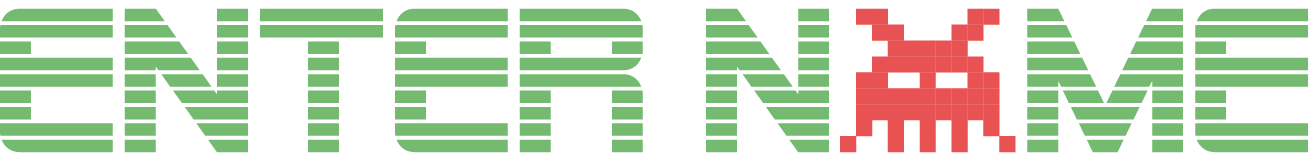
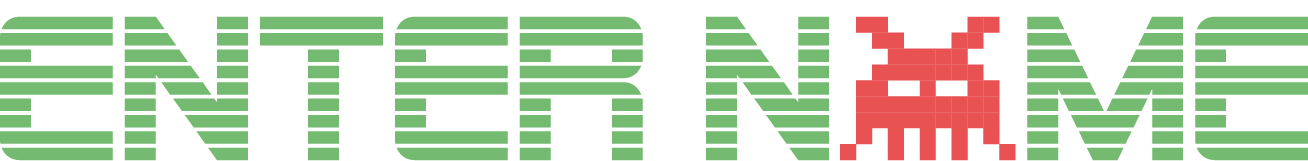
added login feature

diff --git a/public/sketch.js b/public/sketch.js
@@ -4,6 +4,11 @@ let ymp = window.innerHeight / 1080;
 let stars = [];
 let starsAmount = window.innerHeight;
 
+let state = 0;
+let enterNameText = [];
+let loginScreen;
+
+let username;
 let player;
 let upPressed = false;
 let downPressed = false;
@@ -19,9 +24,7 @@ let shipsImgState1 = [];
 let monstersImgState1 = [];
 
 let animationState = 0;
-let animationInterval = setInterval(function () {
-    animationState = animationState === 0 ? 1 : 0
-}, 500);
+let animationInterval = setInterval(function () { animationState = animationState === 0 ? 1 : 0 }, 500);
 
 function preload() {
 
@@ -31,6 +34,9 @@ function preload() {
         monstersImgState0[i] = loadImage(`assets/monster${i}/state0.png`);
         monstersImgState1[i] = loadImage(`assets/monster${i}/state1.png`);
     }
+
+    enterNameText[0] = loadImage(`assets/enterName/state0.png`);
+    enterNameText[1] = loadImage(`assets/enterName/state1.png`);
 }
 
 function setup() {
@@ -44,9 +50,11 @@ function setup() {
         stars[i] = new Star();
     }
 
+    loginScreen = new LoginScreen();
+
     socket.on('spawnHostileCue', spawnHostile);
 
-    player = new Player();
+    //player = new Player();
 }
 
 function draw() {
@@ -57,29 +65,37 @@ function draw() {
         stars[i].show();
     }
 
-    player.show();
+    if(state === 0) { loginScreen.show(); }
 
-    for (let m = 0; m < monsters.length; m++) {
-        for (let b = 0; b < bullets.length; b++) {
-            if (bullets[b].y > monsters[m].y - (monsters[m].size / 2) && bullets[b].y < monsters[m].y + (monsters[m].size / 2) && bullets[b].x > monsters[m].x) {
-                monsters.splice(m, 1);
-                bullets.splice(b, 1);
+    if(state === 1) {
+
+        player.show();
+
+        for (let m = 0; m < monsters.length; m++) {
+            for (let b = 0; b < bullets.length; b++) {
+                if (bullets[b].y > monsters[m].y - (monsters[m].size / 2) && bullets[b].y < monsters[m].y + (monsters[m].size / 2) && bullets[b].x > monsters[m].x) {
+                    monsters.splice(m, 1);
+                    bullets.splice(b, 1);
+                }
             }
-        }
 
-        monsters[m].show();
+            monsters[m].show();
+        }
     }
 }
 
 
 function spawnHostile() {
 
-    for (let i = 0; i < monsters.length; i++) {
-        monsters[i].x -= 100;
-    }
+    if(state === 1) {
 
-    for (let i = 0; i < 12; i++) {
-        monsters.push(new Monster((1080 / 8) * i));
+        for (let i = 0; i < monsters.length; i++) {
+            monsters[i].x -= 100;
+        }
+
+        for (let i = 0; i < 12; i++) {
+            monsters.push(new Monster((1080 / 8) * i));
+        }
     }
 }
 
@@ -104,6 +120,10 @@ function keyPressed() {
     if (keyCode === 32) {
         player.shoot();
     }
+
+    if(keyCode === ENTER && state === 0) {
+        loginScreen.requestUsername();
+    }
 }
 
 function keyReleased() {
@@ -123,4 +143,10 @@ function keyReleased() {
     if (keyCode === RIGHT_ARROW || keyCode === 68) {
         rightPressed = false;
     }
+}
+
+function windowResized() {
+    resizeCanvas(window.innerWidth, window.innerHeight);
+    xmp = window.innerWidth / 1920;
+    ymp = window.innerHeight / 1080;
 }

diff --git a/public/loginScreen/LoginScreen.js b/public/loginScreen/LoginScreen.js
@@ -1,0 +1,41 @@
+class LoginScreen {
+
+    constructor() {
+
+        this.textSize = 1000;
+
+        this.state0 = enterNameText[0];
+        this.state0.resize(this.textSize, 0);
+        this.state1 = enterNameText[1];
+        this.state1.resize(this.textSize, 0);
+
+        this.usernameInp = createInput('');
+        this.usernameInp.size(200, 20);
+
+        socket.on('usernameDeclined', (data) => { console.log(`username ${data} has been declined!`); });
+        socket.on('usernameAccepted', (data) => {
+
+            username = data;
+            this.usernameInp.remove();
+            player = new Player();
+            state = 1;
+        });
+    }
+
+    show() {
+
+        this.usernameInp.position(((1920 / 2) * xmp) - 100, (1080 / 2) * ymp);
+        push();
+        imageMode(CENTER);
+        translate((1920 / 2) * xmp, 400 * ymp);
+        image(animationState === 0 ? this.state0 : this.state1, 0, 0);
+        pop();
+    }
+
+    requestUsername() {
+
+        if(this.usernameInp.value() !== '' && this.usernameInp.value() !== undefined && this.usernameInp.value() !== null) {
+            socket.emit('usernameRequest', this.usernameInp.value());
+        }
+    }
+}

diff --git a/server.js b/server.js
@@ -1,3 +1,4 @@
+let userNames = [];
 let users = [];
 
 let express = require('express');
@@ -19,13 +20,33 @@ function newConnection(socket) {
 
     console.log(`Connected: ${socket.id}`);
 
+    socket.on('usernameRequest', (data) => {
+
+        socket.emit(userNames.includes(data) ? 'usernameDeclined' : 'usernameAccepted', data);
+
+        if(!userNames.includes(data)) {
+
+            userNames.push(data)
+            users.push(socket.id);
+        }
+
+    });
+
     socket.on('disconnect', () => {
+
         console.log(`Disconnected: ${socket.id}`);
+
+        for(let i = 0; i < users.length; i++) {
+            if(socket.id === users[i]) {
+                console.log(`User: ${userNames[i]} has disconnected`);
+                users.splice(i, 1);
+                userNames.splice(i, 1);
+                console.log(`Remaining users: ${userNames}`);
+            }
+        }
     });
 }
 
-let spawnInterval = setInterval(() => {
-    io.sockets.emit('spawnHostileCue')
-}, 2000);
+let spawnInterval = setInterval(() => { io.sockets.emit('spawnHostileCue') }, 2000);
 
 // use socket.emit to send messages and socket.on to receive message

diff --git a/public/index.html b/public/index.html
@@ -19,6 +19,7 @@
   <script src="libraries/p5.sound.js"></script>
   <script src="https://cdn.socket.io/3.1.1/socket.io.min.js"></script>
   <script src="sketch.js"></script>
+  <script src="loginScreen/LoginScreen.js"></script>
   <script src="background/Star.js"></script>
   <script src="player/Player.js"></script>
   <script src="player/Laser.js"></script>
